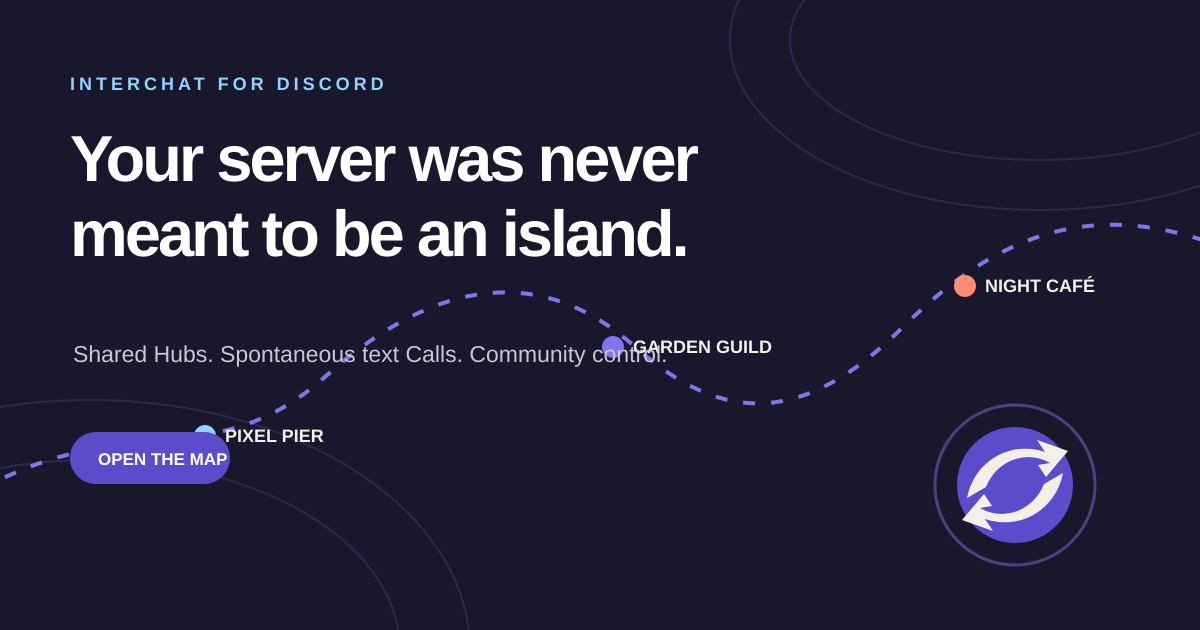
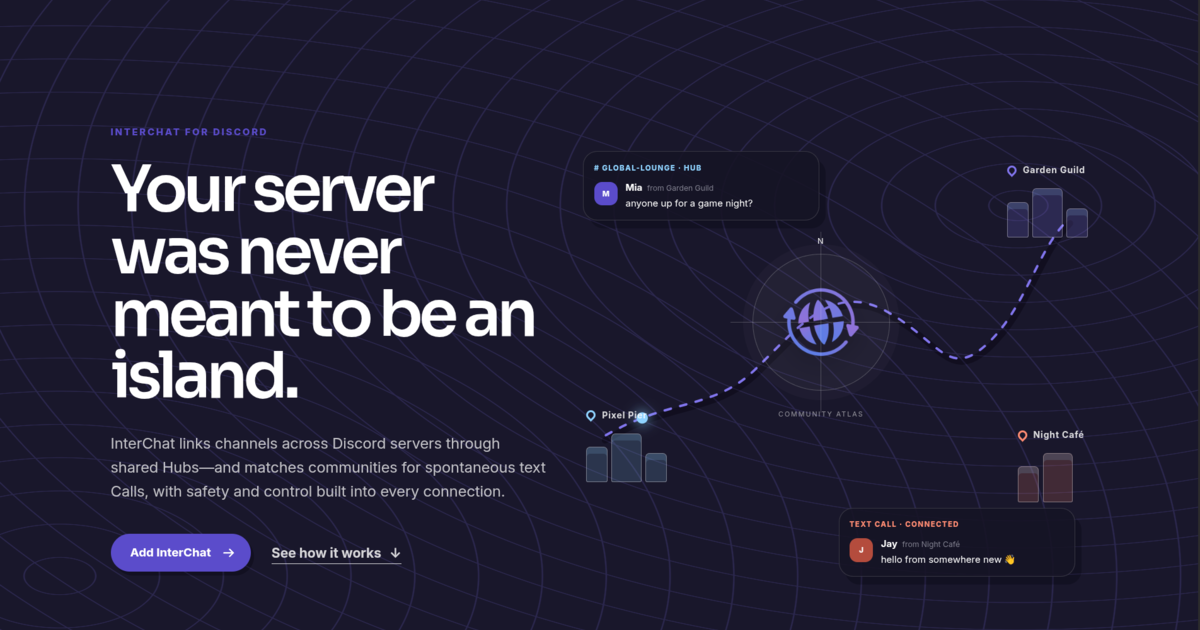
replace image

diff --git a/app/components/marketing/HeroSection.tsx b/app/components/marketing/HeroSection.tsx
@@ -10,7 +10,7 @@ export function HeroSection() {
           <p className="atlas-eyebrow">InterChat for Discord</p>
           <h1 id="hero-title">Your server was never meant to be an island.</h1>
           <p className="atlas-hero__lede">
-            InterChat links channels across Discord servers through shared Hubs—and matches
+            InterChat links channels across Discord servers through shared Hubs, and matches
             communities for spontaneous text Calls, with safety and control built into every connection.
           </p>
           <div className="atlas-hero__actions">